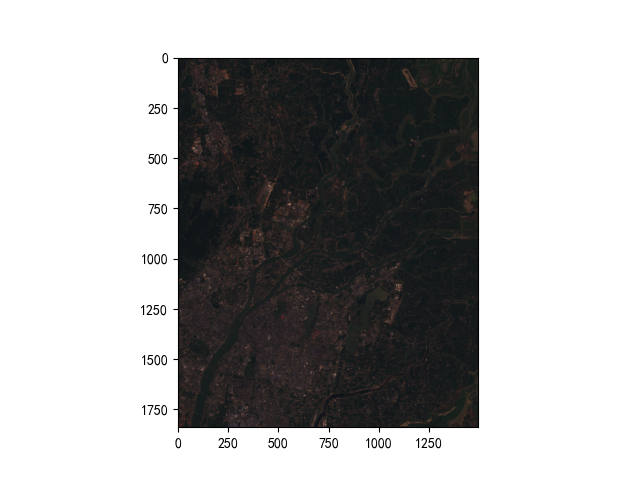
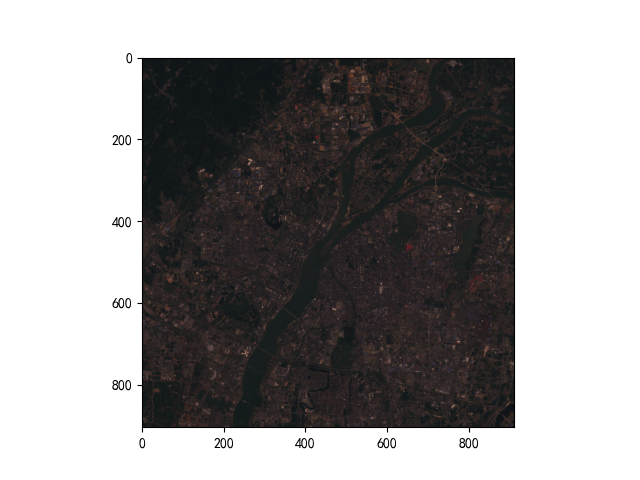
改变了标注方法，添加新的svm分类略缩图

diff --git a/02-Machine-Learning/01-Image-Classification-SVM/useMyDataset/code/train.py b/02-Machine-Learning/01-Image-Classification-SVM/useMyDataset/code/train.py
@@ -9,7 +9,7 @@ from sklearn import metrics
 import joblib
 
 band_path = r"Remote-Sensing-Learning-Journey\02-Machine-Learning\01-Image-Classification-SVM\useMyDataset\dataset\images\data.tif"
-label_path = r"Remote-Sensing-Learning-Journey\02-Machine-Learning\01-Image-Classification-SVM\useMyDataset\dataset\labels\labels.tif"
+label_path = r"Remote-Sensing-Learning-Journey\02-Machine-Learning\01-Image-Classification-SVM\useMyDataset\dataset\labels\labels2.tif"
 X = gdal.Open(band_path).ReadAsArray().astype(np.float32)
 X_transpose = np.transpose(X,(1, 2, 0))
 y = gdal.Open(label_path).ReadAsArray().astype(np.float32)
@@ -26,12 +26,12 @@ print(f"各类别样本数量: {np.bincount(y_labeled.astype(np.int64))}")
 scaler = StandardScaler()
 X_scaled = scaler.fit_transform(X_labeled)
 
-X_scaled_, a, y_labeled_, a, = train_test_split(
-    X_scaled, y_labeled, train_size=0.01, random_state=42, stratify=y_labeled
-)
+# X_scaled_, a, y_labeled_, a, = train_test_split(
+#     X_scaled, y_labeled, train_size=0.01, random_state=42, stratify=y_labeled
+# )
 
 X_train, X_test, y_train, y_test = train_test_split(
-    X_scaled_, y_labeled_, test_size=0.2, random_state=42, stratify=y_labeled_,
+    X_scaled, y_labeled, test_size=0.2, random_state=42, stratify=y_labeled,
 )
 
 

diff --git a/README.md b/README.md
@@ -2,7 +2,7 @@
 
 这是一个遥感练习项目，旨在通过实践学习 GitHub🐙💻 和遥感技术🌐
 
-**技术栈:** `Python`, `GDAL`, `NumPy`, `Matplotlib`
+**技术栈:** `Python`, `GDAL`, `NumPy`, `Matplotlib`, `sklearn`, `svm`
 
 ---
 
@@ -97,17 +97,19 @@ E --> F[深度学习应用]
 
 - 由于原始图像的分辨率较低和标注的准确率较低，模型效果不佳，考虑使用公开数据集进行训练
 
+- 使用了新的标注方法，模型准确率提高，但在对部分类型(如常将水体混淆为房屋)预测效果依旧不佳
+
 - | class | precision | recall | f1-score | support |
    |:------------:|:------------:|:------------:|:------------:|:------------:|
-   | 0.0（水体） | 0.91 | 0.90 | 0.91 | 1273 |
-   | 1.0（森林） | 0.94 | 0.98 | 0.96 | 934 |
-   | 2.0（农田） | 0.70 | 0.79 | 0.74 | 540 |
-   | 3.0（房屋） | 0.71 | 0.71 | 0.71 | 170 |
-   | 4.0（裸地） | 0.54 | 0.31 | 0.39 | 158 |
-   | 5.0（湿地） | 0.79 | 0.71 | 0.75 | 266 |
-   | accuracy | | | 0.85 | 3341 |
-   | macro avg | 0.77 | 0.73 | 0.74 | 3341 |
-   | weighted avg | 0.85 | 0.85 | 0.85 | 3341 |
+   | 0.0（水体） | 0.97 | 0.85 | 0.91 | 1732 |
+   | 1.0（森林） | 0.99 | 1.00 | 1.00 | 2132 |
+   | 2.0（农田） | 0.80 | 0.64 | 0.71 | 146 |
+   | 3.0（房屋） | 0.58 | 0.88 | 0.70 | 565 |
+   | 4.0（裸地） | 0.77 | 0.69 | 0.73 | 269 |
+   | 5.0（湿地） | 0.97 | 0.91 | 0.94 | 397 |
+   | accuracy | | | 0.90 | 5241 |
+   | macro avg | 0.85 | 0.83 | 0.83 | 5241 |
+   | weighted avg | 0.92 | 0.90 | 0.91 | 5241 |
 
    | 原始图像 | 分类图像 |
    |:------------:|:------------:|
